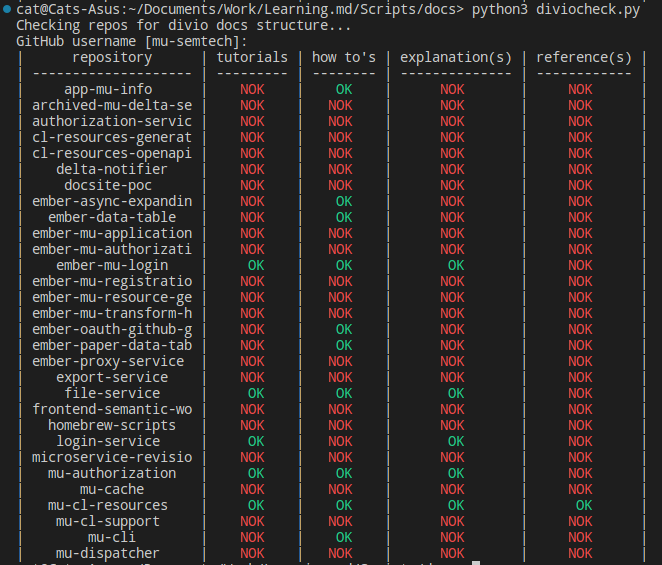
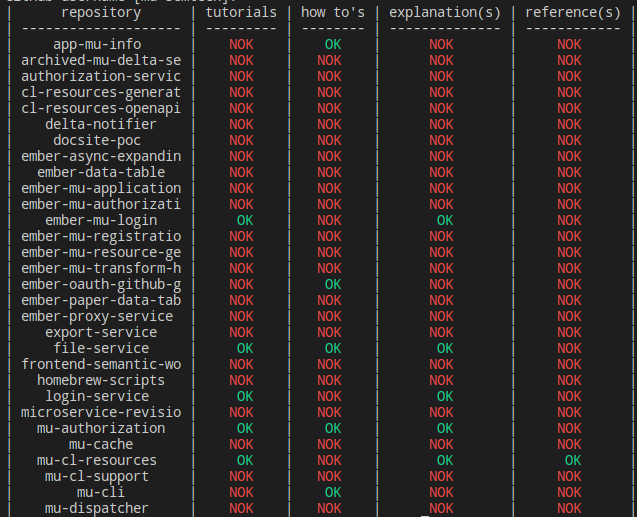
Improved diviocheck regex & updated screenshot

Changed region(s): [[0.0, 0.0, 1.0, 1.0]]

diff --git a/Scripts/diviocheck.py b/Scripts/diviocheck.py
@@ -17,10 +17,10 @@ OKGREEN = '\033[92m'
 FAIL = '\033[91m'
 ENDC = '\033[0m'
 
-TUTORIALS = r"#.*tutorial"
-HOW_TO = r"#.*how.*to"
-REFERENCE = r"#.*reference"
-EXPLANATION = r"#.*(explanation|discussion|background.*material)"
+TUTORIALS = r"^#.*tutorial"
+HOW_TO = r"^#.*how\W*to"
+REFERENCE = r"^#.*reference"
+EXPLANATION = r"^#.*(explanation|discussion|background\W*material)"
 
 # Centerring after the function seems to not work
 def ok(center, string="OK"):
